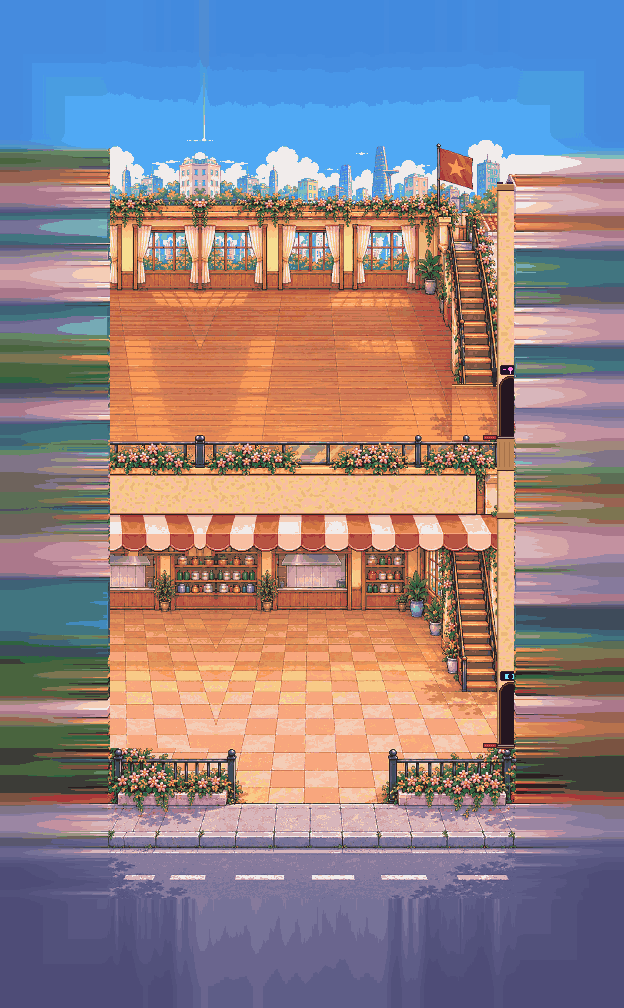
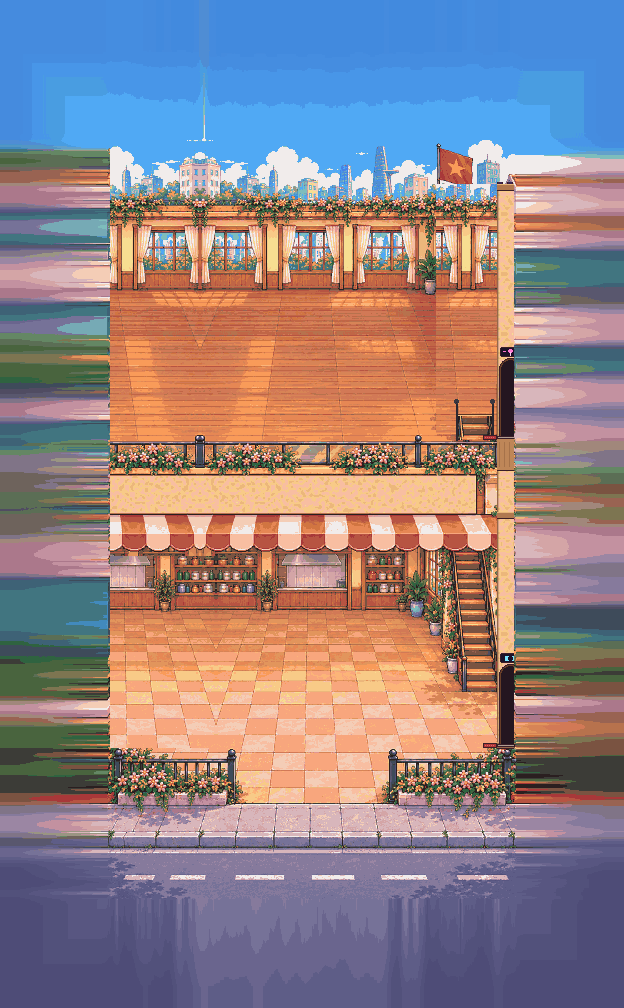
Lẩu Ơi v1.21c: cửa hông cao hơn, cầu thang một mạch lên chiếu nghỉ, không đè mặt tiền
- Hai cửa vòm sang Karaoke / Photo Studio cao thêm ~18px
- Bỏ dãy bậc lên mái: cầu thang từ nền trệt chạy ra sau mặt tiền (lan can, băng biển, mái che nằm trước)
  rồi lên thẳng chiếu nghỉ lầu; miệng cầu thang trên sàn lầu có tay vịn hai bên
- Đường đi nhân vật theo cầu thang mới (khuất sau mặt tiền đoạn giữa)

Claude-Session: https://claude.ai/code/session_01BD8ysNy2UsXiFAiTavnXvs

Changed region(s): [[0.7003, 0.1845, 0.8221, 0.4613], [0.7917, 0.6458, 0.8221, 0.6766]]

diff --git a/web/quanlau/src/art/layouts.js b/web/quanlau/src/art/layouts.js
@@ -161,7 +161,8 @@ const LAYOUTS = {
     // v1.3: the ground-floor stair climbs to y≈198 and comes out on the upper floor beside the balcony (160,148).
     // Before, the top point was the ROOF stair (178,70): people walked up the balcony rail and the roof steps.
     // While inside `hide` (behind the awning / facade band) the walker is not drawn.
-    stairs: { bottom: { x: 178, y: 258 }, via: { x: 178, y: 198 }, top: { x: 160, y: 148 }, hide: { x0: 165, y0: 149, y1: 199 } },
+    // v1.21b cầu thang một mạch từ nền trệt lên thẳng chiếu nghỉ lầu (cạnh cửa Karaoke); đoạn giữa chạy sau mặt tiền
+    stairs: { bottom: { x: 177, y: 262 }, via: { x: 177, y: 140 }, top: { x: 177, y: 128 }, hide: { x0: 166, y0: 137, y1: 196 } },   // v1.21c khuất sau mặt tiền
     // v1.19: bên trái = dãy bàn 2 tầng (cấp 1 trệt, cấp 2 lầu); bên phải = phòng giải trí (art/scenes.js, fun)
     wing: { tables: [table(-30, 262, 1), table(-72, 262, 1), table(-30, 100, 2), table(-72, 100, 2)], aisles: [-10], y: 248,
       waiters: [{ x: -50, y: 247 }, { x: -50, y: 86 }], view: [-100, 292], leftOnly: true },
@@ -172,11 +173,10 @@ const LAYOUTS = {
       // v1.20 khách mua vé: đi vỉa hè → cổng riêng → (cầu thang bên phải lên lầu) → chỗ chơi
       // v1.21 khách vào khu giải trí qua cổng quán → (cầu thang chung → chiếu nghỉ lầu) → cửa vòm hông cầu thang
       nav: { spawnR: 344, spawnL: -124, walkY: 326,
-        door: { 1: { out: [182, 286], at: [195, 287], in: [207, 284], walk: 282 }, 2: { out: [184, 132], at: [195, 133], in: [207, 128], walk: 124 } },
-        hide: { x0: 165, x1: 192, y0: 149, y1: 199 } },
+        door: { 1: { out: [182, 286], at: [195, 287], in: [207, 284], walk: 282 }, 2: { out: [184, 132], at: [195, 133], in: [207, 128], walk: 124 } }, },
       doors: [
-        { floor: 2, x: 195, x0: 190.5, x1: 199.5, y0: 105, y1: 134, glow: '#b06cff', win: '#ff8ad8' },
-        { floor: 1, x: 195, x0: 190.5, x1: 199.5, y0: 258, y1: 288, glow: '#ffc4dc', win: '#8ae6ff' },
+        { floor: 2, x: 195, x0: 190.5, x1: 199.5, y0: 96, y1: 134, glow: '#b06cff', win: '#ff8ad8' },
+        { floor: 1, x: 195, x0: 190.5, x1: 199.5, y0: 249, y1: 288, glow: '#ffc4dc', win: '#8ae6ff' },
       ],
       spots: {
         1: [{ x: 238, y: 232, pose: 'cheer', need: 'gt_phong' }, { x: 249, y: 232, pose: 'cheer', need: 'gt_phong' },

diff --git a/web/quanlau/src/art/assets.js b/web/quanlau/src/art/assets.js
@@ -8,7 +8,7 @@
 // drawn with blit() at a world position lands 1:1 on buffer pixels (crisp, no resampling).
 // Keep DETAIL in sync with `DETAIL` in src/render/renderer.js.
 export const DETAIL = 2;
-export const ASSET_VER = 'l21';   // v1.18n: icons.png + props.png có thêm khung mới (Hộp mù) — PHẢI tăng khi đổi PNG
+export const ASSET_VER = 'l21b';   // v1.18n: icons.png + props.png có thêm khung mới (Hộp mù) — PHẢI tăng khi đổi PNG
 /** khung có nằm trong ảnh đã tải không (ảnh cũ trong bộ nhớ đệm + dữ liệu khung mới → Safari báo lỗi drawImage) */
 export const frameOk = (rec, f) => !!(rec && rec.img && f) && f[0] + f[2] <= (rec.img.naturalWidth || rec.img.width) && f[1] + f[3] <= (rec.img.naturalHeight || rec.img.height);
 

diff --git a/web/quanlau/sw.js b/web/quanlau/sw.js
@@ -1,7 +1,7 @@
 // Lẩu Ơi! service worker (v1.2): makes the game installable as an app (Android "Cài đặt ứng dụng", desktop Chrome/Edge)
 // and lets it open without a connection. Network first: an online player always gets the newest files; the cached
 // copy is only used when the network fails. Saves live in localStorage and are never touched here.
-const CACHE = 'lauoi-v55';
+const CACHE = 'lauoi-v56';
 // Trang thật là /quanlau (vercel.json: trailingSlash:false) nên scope là "/quanlau", không phải "/quanlau/".
 const HOME = '/quanlau';
 const CORE = [HOME, 'index.html', 'style.css', 'manifest.json', 'src/main.js', 'assets/app/icon-192.png'];
